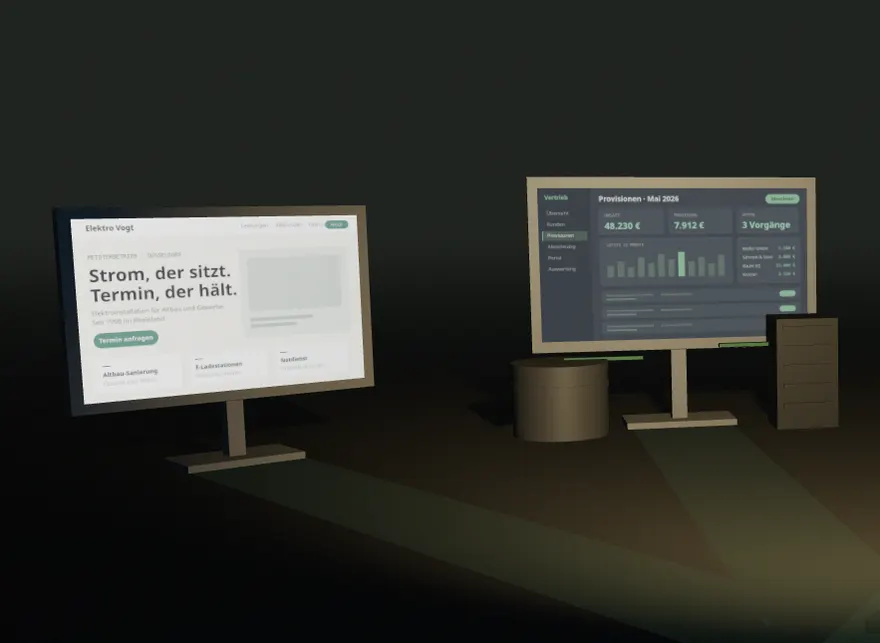
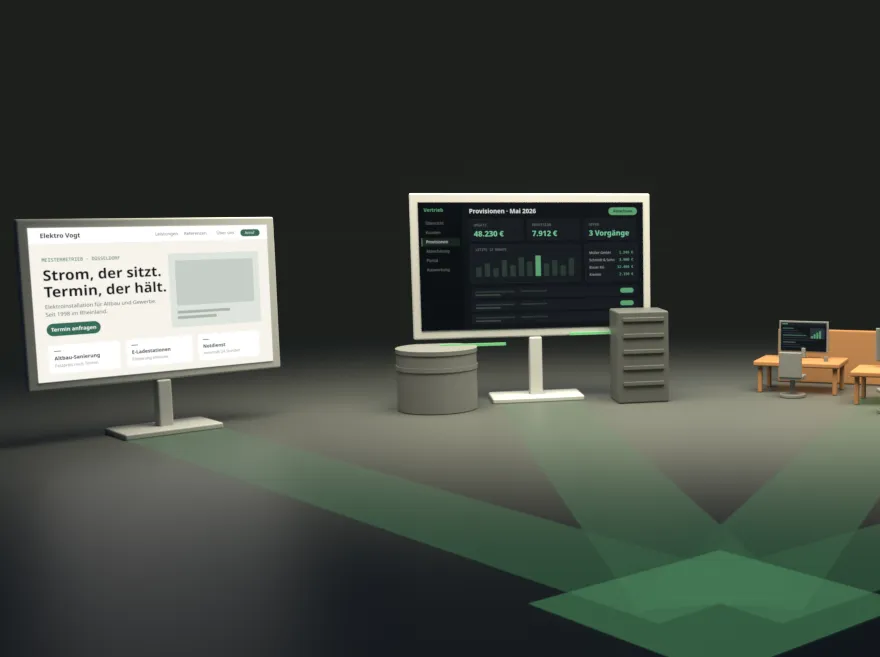
The crossroads is rendered: five stills, a poster, and the anchors they were rendered with
Blender 4.5, Cycles on the CPU, 128 samples at 2x. Each still is the
808x998 free region beside the copy panel, transparent where there is no
light and faded to nothing at its edges, so it sits on the section's own
ink at any stage size. The five come to 608 kB across both scales, 193 kB
at 1x. The poster's two crops come from a wide junction frame of the same
scene.

emit-stills.mjs writes the WebPs, the two poster crops and stills.ts, the
generated module the page reads the files and the label anchors from.

diff --git a/web/src/components/crossroads/stills.ts b/web/src/components/crossroads/stills.ts
@@ -1,0 +1,153 @@
+// Generated by tools/blender/emit-stills.mjs from a Blender render. Do not edit by hand:
+// re-render and run the emitter, so the anchors and the pictures never disagree.
+
+import type { ServiceKey } from './types';
+
+export type StillKey = 'junction' | ServiceKey;
+
+/**
+ * Where a label stands, in still pixels at 1x, x from the left and y from the
+ * top. `on` is whether the label is shown on that still: all four at the
+ * junction, only its own way in a close-up.
+ */
+export type Anchor = { x: number; y: number; on: boolean };
+
+export type Still = { src: string; src2x: string; marks: Record<ServiceKey, Anchor> };
+
+/** The still is the free region beside the copy panel at 1440x900, in CSS pixels. */
+export const STILL = { width: 808, height: 998 } as const;
+
+export const STILL_ORDER: readonly StillKey[] = ['junction', 'website', 'app', 'capacity', 'care'];
+
+export const STILLS: Record<StillKey, Still> = {
+  junction: {
+    src: '/crossroads/junction.webp',
+    src2x: '/crossroads/junction@2x.webp',
+    marks: {
+      website: {
+        x: 116,
+        y: 409,
+        on: true,
+      },
+      app: {
+        x: 307,
+        y: 398,
+        on: true,
+      },
+      capacity: {
+        x: 501,
+        y: 466,
+        on: true,
+      },
+      care: {
+        x: 694,
+        y: 387,
+        on: true,
+      },
+    },
+  },
+  website: {
+    src: '/crossroads/website.webp',
+    src2x: '/crossroads/website@2x.webp',
+    marks: {
+      website: {
+        x: 404,
+        y: 212,
+        on: true,
+      },
+      app: {
+        x: 1555,
+        y: -1,
+        on: false,
+      },
+      capacity: {
+        x: 81782,
+        y: 519,
+        on: false,
+      },
+      care: {
+        x: -1416,
+        y: 888,
+        on: false,
+      },
+    },
+  },
+  app: {
+    src: '/crossroads/app.webp',
+    src2x: '/crossroads/app@2x.webp',
+    marks: {
+      website: {
+        x: -429,
+        y: 239,
+        on: false,
+      },
+      app: {
+        x: 385,
+        y: 227,
+        on: true,
+      },
+      capacity: {
+        x: 1340,
+        y: 515,
+        on: false,
+      },
+      care: {
+        x: 5996,
+        y: -862,
+        on: false,
+      },
+    },
+  },
+  capacity: {
+    src: '/crossroads/capacity.webp',
+    src2x: '/crossroads/capacity@2x.webp',
+    marks: {
+      website: {
+        x: -3094,
+        y: -256,
+        on: false,
+      },
+      app: {
+        x: -447,
+        y: 73,
+        on: false,
+      },
+      capacity: {
+        x: 412,
+        y: 402,
+        on: true,
+      },
+      care: {
+        x: 1139,
+        y: 79,
+        on: false,
+      },
+    },
+  },
+  care: {
+    src: '/crossroads/care.webp',
+    src2x: '/crossroads/care@2x.webp',
+    marks: {
+      website: {
+        x: 2892,
+        y: 940,
+        on: false,
+      },
+      app: {
+        x: -7160,
+        y: -1241,
+        on: false,
+      },
+      capacity: {
+        x: -426,
+        y: 530,
+        on: false,
+      },
+      care: {
+        x: 408,
+        y: 233,
+        on: true,
+      },
+    },
+  },
+};

diff --git a/web/tests/unit/crossroads-stills.spec.ts b/web/tests/unit/crossroads-stills.spec.ts
@@ -1,0 +1,57 @@
+import { existsSync } from 'node:fs';
+import path from 'node:path';
+
+import { expect, test } from '@playwright/test';
+
+import { STILL, STILL_ORDER, STILLS } from '../../src/components/crossroads/stills';
+
+const WAYS = ['website', 'app', 'capacity', 'care'] as const;
+
+test('there are five stills, the junction first, then the four ways in the order the rows stand', () => {
+  expect(STILL_ORDER).toEqual(['junction', ...WAYS]);
+  expect(Object.keys(STILLS).sort()).toEqual([...STILL_ORDER].sort());
+});
+
+test('every still ships at 1x and 2x, and both files exist', () => {
+  for (const key of STILL_ORDER) {
+    const still = STILLS[key];
+    expect(still.src, `${key} has no 1x`).toMatch(/^\/crossroads\/[a-z]+\.webp$/);
+    expect(still.src2x, `${key} has no 2x`).toMatch(/^\/crossroads\/[a-z]+@2x\.webp$/);
+    for (const src of [still.src, still.src2x]) {
+      expect(existsSync(path.join(__dirname, '..', '..', 'public', src)), `${src} is missing`).toBe(
+        true,
+      );
+    }
+  }
+});
+
+test('every anchor stands inside its still', () => {
+  for (const key of STILL_ORDER) {
+    for (const way of WAYS) {
+      const a = STILLS[key].marks[way];
+      expect(a, `${key} has no anchor for ${way}`).toBeDefined();
+      if (!a.on) continue;
+      // A label that is shown has to be somewhere a chip can stand: inside the
+      // still, with room above it for the chip itself.
+      expect(a.x, `${key}: ${way} is off the left`).toBeGreaterThan(0);
+      expect(a.x, `${key}: ${way} is off the right`).toBeLessThan(STILL.width);
+      expect(a.y, `${key}: ${way} is off the top`).toBeGreaterThan(24);
+      expect(a.y, `${key}: ${way} is off the bottom`).toBeLessThan(STILL.height);
+    }
+  }
+});
+
+test('the junction names all four, and a close-up names only its own way', () => {
+  for (const way of WAYS)
+    expect(STILLS.junction.marks[way].on, `${way} is unnamed at the junction`).toBe(true);
+  for (const key of WAYS) {
+    for (const way of WAYS) {
+      expect(STILLS[key].marks[way].on, `${key} shows the label for ${way}`).toBe(key === way);
+    }
+  }
+});
+
+test('at the junction the four labels stand left to right in the order of the rows', () => {
+  const xs = WAYS.map((way) => STILLS.junction.marks[way].x);
+  expect([...xs].sort((a, b) => a - b)).toEqual(xs);
+});

diff --git a/web/tools/blender/crossroads.py b/web/tools/blender/crossroads.py
@@ -36,7 +36,7 @@ def arg(name, default):
 
 HERE = os.path.dirname(os.path.abspath(__file__))
 OUT = arg("--out", os.path.join(HERE, "renders"))
-SHOTS_WANTED = arg("--shots", "junction,website,app,capacity,care").split(",")
+SHOTS_WANTED = arg("--shots", "junction" if arg("--frame", "free") == "poster" else "junction,website,app,capacity,care").split(",")
 SCALE = float(arg("--scale", "1"))
 SAMPLES = int(arg("--samples", "128"))
 DOF = arg("--dof", "1") == "1"
@@ -57,10 +57,20 @@ MIST_DEPTH = float(arg("--mist", "20"))
 
 os.makedirs(OUT, exist_ok=True)
 
-# The stage at the 1440x900 viewport: the copy panel covers the left 632 px and
-# the scene is framed in the 808 px beside it.
-W, H, RESERVE = 1440, 998, 632
+# The frame. `free` is the still the page ships: the 808x998 region beside the
+# copy panel at the 1440x900 viewport, with the principal point in its middle.
+# `full` is the whole 1440x998 stage with the panel's 632 px reserve, which is
+# what the spike rendered. `poster` is the junction in a wide frame for the
+# phone and fallback picture.
+FRAME = arg("--frame", "free")
+if FRAME == "full":
+    W, H, RESERVE = 1440, 998, 632
+elif FRAME == "poster":
+    W, H, RESERVE = 1600, 1000, 0
+else:
+    W, H, RESERVE = 808, 998, 0
 FREE = W - RESERVE
+MASK = arg("--mask", "0" if FRAME == "poster" else "1") == "1"
 
 # ------------------------------------------------------------------ palette
 
@@ -506,7 +516,39 @@ tree.links.new(rl.outputs["Image"], mix.inputs[1])
 premul = tree.nodes.new("CompositorNodeSetAlpha")
 premul.mode = "APPLY"
 tree.links.new(mix.outputs["Image"], premul.inputs["Image"])
-tree.links.new(rl.outputs["Alpha"], premul.inputs["Alpha"])
+# The edges fade to nothing: a soft box multiplies the alpha, so the near
+# floor and the sides of the still end in the page's ink wherever the still
+# is placed, at any stage size. The objects and the light pool sit well
+# inside the box. Its width is set per shot below (the junction's fan reaches
+# further out than a close-up).
+# In Blender 4.5 the box's place and size are input sockets. Measured on a
+# 404x499 frame: Position is a fraction of each axis (y from the bottom), Size
+# is a fraction of the image WIDTH on both axes, and the node's own `width`
+# and `height` are its box on the editor canvas, which is a trap this script
+# fell into once. So a height of 1.05 on the 808x998 still is 848 px, from
+# 55 px under the top to 95 px above the bottom before the blur.
+MASK_HEIGHT = 1.05
+box_mask = tree.nodes.new("CompositorNodeBoxMask")
+box_mask.inputs["Position"].default_value = (0.5, 0.52)
+box_mask.inputs["Size"].default_value = (0.92, MASK_HEIGHT)
+# Measured at half scale: a size of 120 turned the box's hard edge into a
+# soft zone about 80 px wide on each side, so the number is not a radius.
+# Scaled with the render, so the fade is the same fraction of the still at
+# 1x and 2x.
+mask_blur = tree.nodes.new("CompositorNodeBlur")
+mask_blur.filter_type = "FAST_GAUSS"
+mask_blur.use_relative = False
+mask_blur.size_x = int(200 * SCALE)
+mask_blur.size_y = int(200 * SCALE)
+tree.links.new(box_mask.outputs["Mask"], mask_blur.inputs["Image"])
+alpha_mul = tree.nodes.new("CompositorNodeMath")
+alpha_mul.operation = "MULTIPLY"
+tree.links.new(rl.outputs["Alpha"], alpha_mul.inputs[0])
+if MASK:
+    tree.links.new(mask_blur.outputs["Image"], alpha_mul.inputs[1])
+else:
+    alpha_mul.inputs[1].default_value = 1.0
+tree.links.new(alpha_mul.outputs["Value"], premul.inputs["Alpha"])
 tree.links.new(premul.outputs["Image"], glare.inputs["Image"])
 if PREVIEW:
     over = tree.nodes.new("CompositorNodeAlphaOver")
@@ -558,6 +600,7 @@ for name in SHOTS_WANTED:
     bpy.context.view_layer.update()
     aspect = FREE / H
     cam_data.angle_y = math.radians(fov_for(shot["fit"][0], shot["fit"][1], aspect))
+    box_mask.inputs["Size"].default_value = (0.98 if name == "junction" else 0.9, MASK_HEIGHT)
     cam_data.dof.use_dof = DOF
     cam_data.dof.focus_distance = (look - pos).length
     cam_data.dof.aperture_fstop = shot["fstop"]
@@ -604,7 +647,7 @@ for name in SHOTS_WANTED:
     for k, anchor in anchors.items():
         v = world_to_camera_view(scene, cam, anchor)
         marks[k] = [round(v.x * W), round((1 - v.y) * H), round(v.z, 2)]
-    report[name] = {"camera": list(pos), "look": list(look), "fov_y": round(math.degrees(cam_data.angle_y), 2), "shift_x": round(cam_data.shift_x, 4), "marks": marks}
+    report[name] = {"frame": FRAME, "width": W, "height": H, "scale": SCALE, "camera": list(pos), "look": list(look), "fov_y": round(math.degrees(cam_data.angle_y), 2), "shift_x": round(cam_data.shift_x, 4), "marks": marks}
     print(f"rendered {name}: {report[name]}")
 
 with open(os.path.join(OUT, "anchors.json"), "w") as f:
